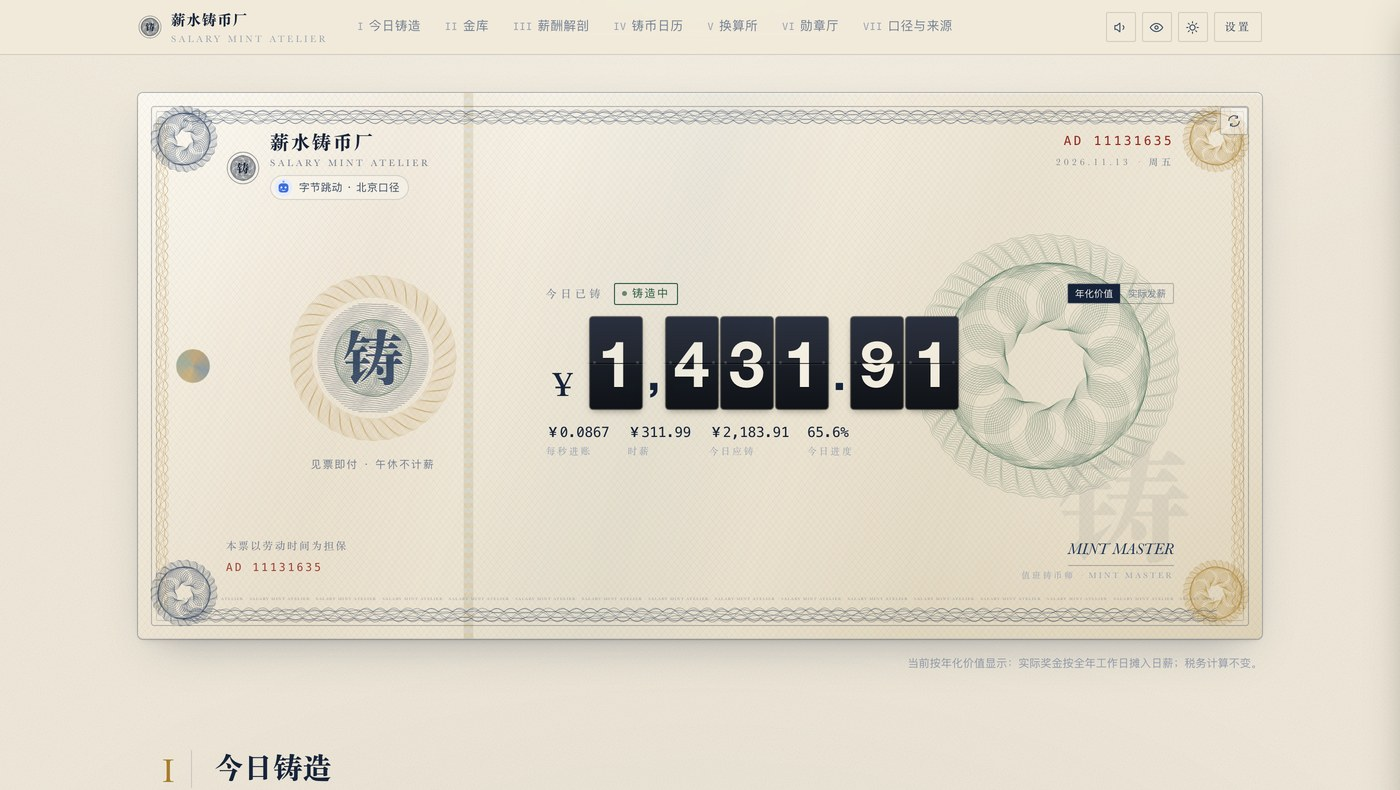
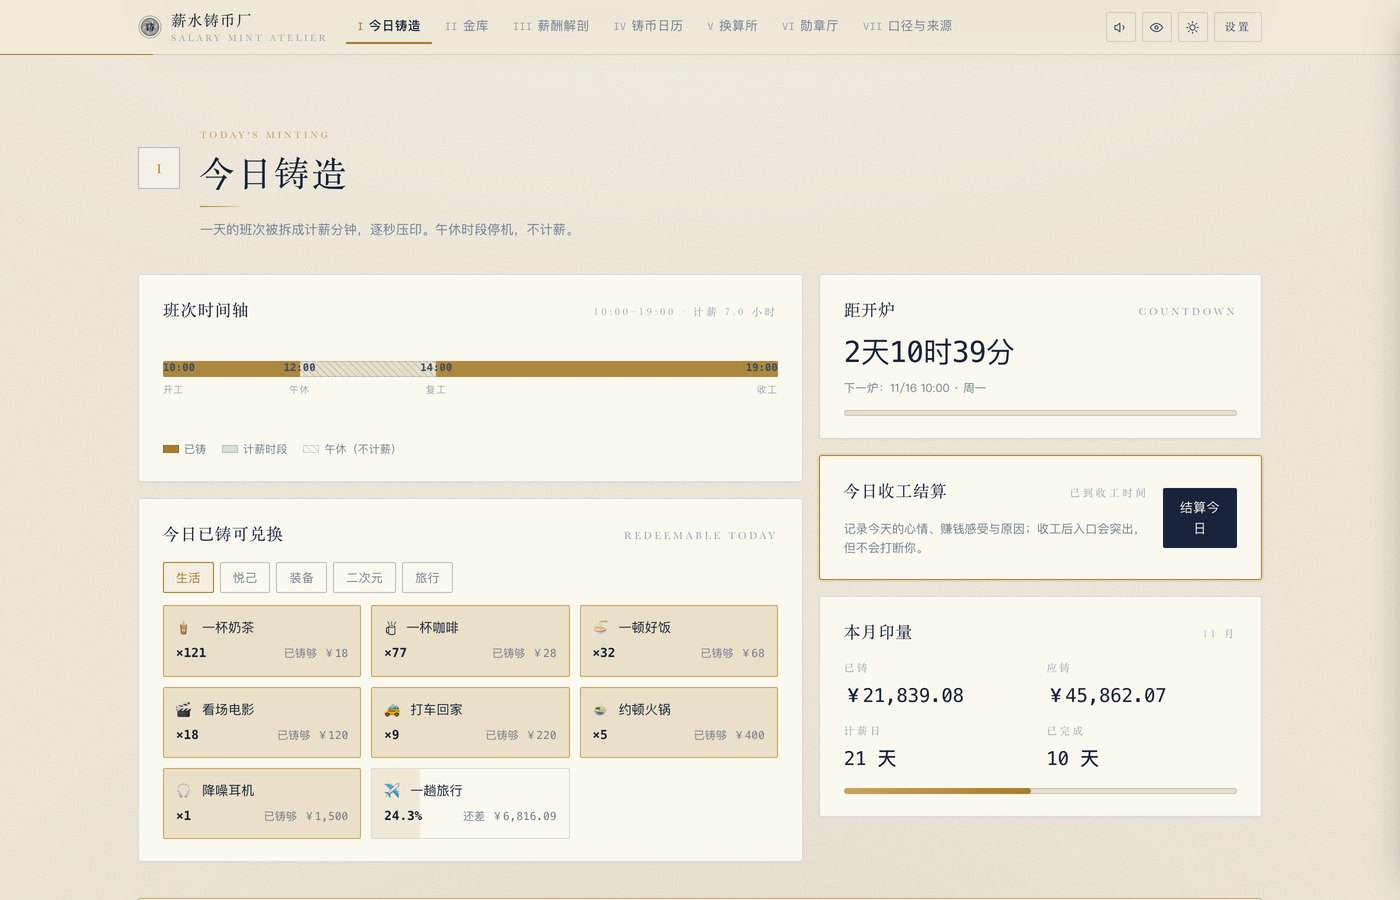
视觉打磨：重做章节版头，详情卡默认收起
- 一级标题改为钞版编号方框 + 英文小标 + 衬线标题，去掉宋体合成粗体
- 全年逐月明细 / 年度铸造节奏 / 战报卡默认折叠，摘要行直接显示合计
- 「今日已铸可兑换」并入左栏，消除时间轴卡片的大片留白
- 卡片标题与顶部品牌同步去掉合成粗体
- 重拍 README 截图，版本号 1.1.1

diff --git a/web/index.html b/web/index.html
@@ -207,19 +207,30 @@
     <div class="chap-head">
       <div class="chap-no">I</div>
       <div class="chap-t">
-        <h2>今日铸造</h2>
+        <div class="chap-ttl"><h2>今日铸造</h2><span class="lat">Today&#39;s Minting</span></div>
         <p class="lead">一天的班次被拆成计薪分钟，逐秒压印。午休时段停机，不计薪。</p>
       </div>
     </div>
 
-    <div class="grid g32">
-      <div class="card">
-        <div class="card-h"><h3>班次时间轴</h3><span class="k" id="tlRange">—</span></div>
-        <div class="tl" id="tl"></div>
-        <div class="tl-lg">
-          <span><i class="a"></i>已铸</span>
-          <span><i class="b"></i>计薪时段</span>
-          <span><i class="c"></i>午休（不计薪）</span>
+    <div class="grid g32" style="align-items:start">
+      <div style="display:flex;flex-direction:column;gap:16px">
+        <div class="card">
+          <div class="card-h"><h3>班次时间轴</h3><span class="k" id="tlRange">—</span></div>
+          <div class="tl" id="tl"></div>
+          <div class="tl-lg">
+            <span><i class="a"></i>已铸</span>
+            <span><i class="b"></i>计薪时段</span>
+            <span><i class="c"></i>午休（不计薪）</span>
+          </div>
+        </div>
+
+        <div class="card">
+          <div class="card-h">
+            <h3>今日已铸可兑换</h3>
+            <span class="k">Redeemable Today</span>
+          </div>
+          <div class="gsets" id="goalSets" role="group" aria-label="可兑换体系"></div>
+          <div class="goals blur" id="goals"></div>
         </div>
       </div>
 
@@ -246,15 +257,6 @@
         </div>
       </div>
     </div>
-
-    <div class="card" style="margin-top:16px">
-      <div class="card-h">
-        <h3>今日已铸可兑换</h3>
-        <span class="k">Redeemable Today</span>
-      </div>
-      <div class="gsets" id="goalSets" role="group" aria-label="可兑换体系"></div>
-      <div class="goals blur" id="goals"></div>
-    </div>
   </div>
 </section>
 
@@ -279,7 +281,7 @@
     <div class="chap-head">
       <div class="chap-no">II</div>
       <div class="chap-t">
-        <h2>金库</h2>
+        <div class="chap-ttl"><h2>金库</h2><span class="lat">The Vault</span></div>
         <p class="lead">本月已铸金额按面额堆成金条与散币，虚线是本月尚未铸出的份额。</p>
       </div>
     </div>
@@ -317,7 +319,7 @@
     <div class="chap-head">
       <div class="chap-no">III</div>
       <div class="chap-t">
-        <h2>薪酬解剖</h2>
+        <div class="chap-ttl"><h2>薪酬解剖</h2><span class="lat">Payroll Anatomy</span></div>
         <p class="lead">年薪月数（默认 15 薪）→ 12 个月 base 走累计预扣法、年终奖走全年一次性奖金单独计税 → 所选城市口径五险一金（个人部分）→ 到手。不含专项附加扣除。</p>
       </div>
     </div>
@@ -361,8 +363,12 @@
       </div>
     </div>
 
-    <div class="card" style="margin-top:16px">
-      <div class="card-h"><h3>全年逐月明细</h3><span class="k">Monthly Ledger</span></div>
+    <details class="card fold-card" style="margin-top:16px">
+      <summary>
+        <span class="fc-t">全年逐月明细</span>
+        <span class="k">Monthly Ledger</span>
+        <span class="fc-hint" id="taxTableHint">12 个月 · 展开查看</span>
+      </summary>
       <div class="tscroll">
         <table class="t blur" id="taxTable">
           <thead><tr>
@@ -372,7 +378,7 @@
           <tbody></tbody>
         </table>
       </div>
-    </div>
+    </details>
   </div>
 </section>
 
@@ -382,7 +388,7 @@
     <div class="chap-head">
       <div class="chap-no">IV</div>
       <div class="chap-t">
-        <h2>铸币日历</h2>
+        <div class="chap-ttl"><h2>铸币日历</h2><span class="lat">Minting Calendar</span></div>
         <p class="lead">按国务院办公厅当年放假通知渲染：法定节假日、调休放假、调休上班日各自成态；支持过去 31 天补录结算，完整记录保存在本机 localStorage，Cookie 仅作兼容。</p>
       </div>
     </div>
@@ -416,8 +422,13 @@
       <div class="sheet" id="sheet"></div>
     </div>
 
-    <div class="card" style="margin-top:20px">
-      <div class="card-h"><h3>年度铸造节奏</h3><span class="k" id="heatYear">—</span></div>
+    <details class="card fold-card" style="margin-top:20px">
+      <summary>
+        <span class="fc-t">年度铸造节奏</span>
+        <span class="k" id="heatYear">—</span>
+        <span class="fc-hint" id="yearHint">展开查看全年分布</span>
+      </summary>
+      <div class="fold-body">
       <div class="ybars" id="yearBars"></div>
       <div class="rule" style="margin:16px 0 12px"></div>
       <div class="grid g4" style="gap:12px">
@@ -433,7 +444,8 @@
         <span><em style="background:var(--engrave)"></em>心情好的天</span>
         <span><em style="background:var(--press)"></em>心情差的天</span>
       </div>
-    </div>
+      </div>
+    </details>
   </div>
 </section>
 
@@ -443,7 +455,7 @@
     <div class="chap-head">
       <div class="chap-no">V</div>
       <div class="chap-t">
-        <h2>换算所</h2>
+        <div class="chap-ttl"><h2>换算所</h2><span class="lat">Exchange</span></div>
         <p class="lead">把时间换算成钱，再把钱换算成看得懂的东西。</p>
       </div>
     </div>
@@ -528,14 +540,19 @@
     <div class="chap-head">
       <div class="chap-no">VI</div>
       <div class="chap-t">
-        <h2>勋章厅</h2>
+        <div class="chap-ttl"><h2>勋章厅</h2><span class="lat">Medal Hall</span></div>
         <p class="lead">六枚勋章，按当日与本月的铸造状态即时判定，不写入历史成绩。</p>
       </div>
     </div>
     <div class="medals" id="medalWall"></div>
 
-    <div class="card" style="margin-top:20px">
-      <div class="card-h"><h3>战报卡</h3><span class="k">Daily Bulletin</span></div>
+    <details class="card fold-card" style="margin-top:20px">
+      <summary>
+        <span class="fc-t">战报卡</span>
+        <span class="k">Daily Bulletin</span>
+        <span class="fc-hint">把某一天压成可分享的券</span>
+      </summary>
+      <div class="fold-body">
       <div class="grid g23" style="align-items:start">
         <div>
           <p style="margin:0 0 12px;font-size:13px;color:var(--ink-2);line-height:1.8">
@@ -558,7 +575,8 @@
           <canvas id="cardCv" style="width:100%;border:1px solid var(--line);border-radius:3px"></canvas>
         </div>
       </div>
-    </div>
+      </div>
+    </details>
   </div>
 </section>
 
@@ -568,7 +586,7 @@
     <div class="chap-head">
       <div class="chap-no">VII</div>
       <div class="chap-t">
-        <h2>口径与来源</h2>
+        <div class="chap-ttl"><h2>口径与来源</h2><span class="lat">Sources &amp; Method</span></div>
         <p class="lead">法定数字都能追到一手出处，默认收起，需要核对时展开。</p>
       </div>
     </div>

diff --git a/web/assets/base.css b/web/assets/base.css
@@ -83,20 +83,49 @@ img,svg,canvas{ display:block; max-width:100%; }
 .rule-d{ height:3px; border-top:1px solid var(--line-3); border-bottom:1px solid var(--line); }
 
 /* 章节壳 */
-.chap{ padding:78px 0 12px; position:relative; }
-.chap-head{ display:flex; align-items:flex-start; gap:22px; margin-bottom:28px; }
+.chap{ padding:76px 0 12px; position:relative; }
+/* 章节版头：钞版编号方框 + 英文小标 + 衬线标题；标题不用合成粗体 */
+.chap-head{ display:flex; align-items:flex-start; margin-bottom:32px; }
 .chap-no{
-  flex:none; width:54px; padding-top:4px;
-  font-family:var(--lat); font-size:34px; line-height:1; color:var(--gold);
-  letter-spacing:.02em; border-right:1px solid var(--line); padding-right:16px; text-align:right;
+  flex:none; width:42px; height:42px; margin:20px 20px 0 0;
+  display:grid; place-items:center;
+  font-family:var(--lat); font-size:13px; font-weight:400; line-height:1;
+  color:var(--gold); letter-spacing:.1em; text-indent:.1em;
+  border:1px solid var(--line-3); border-radius:1px;
+  background:color-mix(in srgb,var(--paper-hi) 55%, transparent);
 }
+html[data-theme="night"] .chap-no{ background:color-mix(in srgb,#FFF 3%, transparent); border-color:var(--line); }
 .chap-t{ flex:1 1 auto; min-width:0; }
 .chap-t h2{
-  margin:0 0 4px; font-family:var(--serif); font-weight:900;
-  font-size:clamp(21px,2.5vw,29px); letter-spacing:.02em; line-height:1.24;
+  margin:0; font-family:var(--serif); font-weight:400;
+  font-size:clamp(26px,3vw,35px); letter-spacing:.06em; line-height:1.24;
+  color:var(--ink);
 }
-.chap-t .lead{ margin:0; color:var(--ink-2); font-size:14px; max-width:66ch; }
-.chap-t .lat{ font-family:var(--lat); font-size:12.5px; letter-spacing:.28em; text-transform:uppercase; color:var(--ink-4); }
+.chap-t .lead{
+  margin:11px 0 0; color:var(--ink-3); font-size:13px; line-height:1.8;
+  max-width:62ch; letter-spacing:.005em;
+}
+/* 英文小标压在标题之上，与标题左缘对齐 */
+.chap-ttl{ display:flex; flex-direction:column-reverse; align-items:flex-start; gap:7px; }
+.chap-t .lat{
+  font-family:var(--lat); font-size:9.5px; letter-spacing:.32em; text-transform:uppercase;
+  color:var(--gold); opacity:.72; white-space:nowrap;
+}
+/* 标题下的细装饰线：从标题左缘延伸，收在 1/3 处 */
+.chap-t h2::after{
+  content:''; display:block; width:44px; height:1px; margin-top:13px;
+  background:linear-gradient(90deg,var(--gold) 0%,var(--gold-dim) 55%,transparent 100%);
+}
+@media (max-width:640px){
+  .chap{ padding:52px 0 8px; }
+  .chap-head{ margin-bottom:24px; }
+  .chap-no{ width:32px; height:32px; margin:16px 12px 0 0; font-size:11px; }
+  .chap-t h2{ font-size:23px; letter-spacing:.05em; }
+  .chap-ttl{ gap:5px; }
+  .chap-t .lat{ font-size:8.5px; letter-spacing:.24em; }
+  .chap-t .lead{ font-size:12.5px; margin-top:9px; }
+  .chap-t h2::after{ margin-top:10px; width:34px; }
+}
 
 /* 卡片 */
 .card{
@@ -107,8 +136,46 @@ img,svg,canvas{ display:block; max-width:100%; }
 html[data-theme="night"] .card{ background:var(--paper-2); box-shadow:none; }
 .card.flat{ background:transparent; box-shadow:none; }
 .card-h{ display:flex; align-items:baseline; justify-content:space-between; gap:12px; margin-bottom:14px; }
-.card-h h3{ margin:0; font-family:var(--serif); font-weight:700; font-size:15.5px; letter-spacing:.03em; }
+.card-h h3{ margin:0; font-family:var(--serif); font-weight:400; font-size:16.5px; letter-spacing:.045em; }
 .card-h .k{ font-family:var(--lat); font-size:10.5px; letter-spacing:.26em; text-transform:uppercase; color:var(--ink-4); }
+
+/* 可折叠卡片：标题行本身即开关，默认收起 */
+.card.fold-card{ padding:0; }
+.fold-card > summary{
+  display:flex; align-items:baseline; gap:12px; cursor:pointer; list-style:none;
+  padding:18px 24px; margin:0;
+}
+.fold-card > summary::-webkit-details-marker{ display:none; }
+.fold-card > summary .fc-t{
+  display:inline-flex; align-items:center; gap:9px;
+  font-family:var(--serif); font-weight:400; font-size:16.5px; letter-spacing:.045em; color:var(--ink);
+}
+.fold-card > summary .fc-t::before{
+  content:''; width:2px; height:13px; background:var(--gold-dim); flex:none;
+}
+.fold-card > summary .fc-t{ margin-right:auto; }
+.fold-card > summary .fc-hint{
+  font-size:11.5px; color:var(--ink-3); letter-spacing:.01em; white-space:nowrap;
+}
+.fold-card > summary::after{
+  content:'＋'; font-family:var(--mono); font-size:13px; color:var(--ink-4); margin-left:2px;
+}
+.fold-card[open] > summary::after{ content:'－'; }
+.fold-card > summary:hover .fc-t{ color:var(--gold); }
+.fold-card[open] > summary{ border-bottom:1px solid var(--line-2); }
+.fold-card .tscroll{ padding:6px 24px 18px; }
+.fold-card .fold-body{ padding:4px 24px 22px; }
+
+@media (max-width:640px){
+  .fold-card > summary{ padding:14px 16px; gap:9px; }
+  .fold-card > summary .k{ display:none; }
+  .fold-card > summary .fc-hint{ font-size:10.5px; }
+  .fold-card .tscroll{ padding:4px 16px 14px; }
+  .fold-card .fold-body{ padding:2px 16px 16px; }
+}
+@media (max-width:360px){
+  .fold-card > summary .fc-hint{ display:none; }
+}
 
 .grid{ display:grid; gap:16px; }
 .g2{ grid-template-columns:repeat(2,minmax(0,1fr)); }
@@ -151,7 +218,7 @@ html[data-theme="night"] .card{ background:var(--paper-2); box-shadow:none; }
 @media (max-width:640px){ .topbar-in{ padding:0 14px; height:50px; gap:10px; } }
 .brand{ display:flex; align-items:center; gap:9px; flex:none; }
 .brand .seal{ width:24px; height:24px; flex:none; }
-.brand b{ font-family:var(--serif); font-weight:900; font-size:14.5px; letter-spacing:.06em; white-space:nowrap; }
+.brand b{ font-family:var(--serif); font-weight:400; font-size:15px; letter-spacing:.09em; white-space:nowrap; }
 .brand i{ font-family:var(--lat); font-style:normal; font-size:9.5px; letter-spacing:.28em; text-transform:uppercase; color:var(--ink-4); display:block; margin-top:-2px; }
 @media (max-width:820px){ .brand i{ display:none; } }
 

diff --git a/web/assets/app.js b/web/assets/app.js
@@ -701,6 +701,10 @@ function renderPayroll(){
       <td class="n">—</td><td class="n">—</td>
       <td class="n">${fmt(ty.year.tax,0)}</td>
       <td class="n">${fmt(ty.year.net,0)}</td></tr>`;
+
+  /* 折叠标题上的摘要：不展开也能看到全年合计 */
+  const hint = $('#taxTableHint');
+  if (hint) hint.textContent = '12 个月 · 全年到手 ' + yuan0(ty.year.net);
 }
 
 /* ---------- 年薪结构（年薪月数 / 年终奖 / 年到手） ---------- */
@@ -1037,6 +1041,8 @@ function renderYear(){
     : '年化月均 ' + yuan0(total/12);
   $('#yWork').textContent  = work + ' 天' + (otD ? ' + 加班 ' + otD + ' 天' : '');
   $('#yLegal').textContent = legal + ' 天';
+  const yHint = document.getElementById('yearHint');
+  if (yHint) yHint.textContent = '计薪 ' + work + ' 天 · 全年 ' + yuan0(total);
   $('#yMood').textContent  = yMood.n + ' 天';
   $('#yMoodSub').textContent = yMood.n
     ? '开心 ' + yMood.g + ' · 一般 ' + yMood.s + ' · 不开心 ' + yMood.b + ' · 难赚 ' + yMood.h

diff --git a/README.md b/README.md
@@ -58,7 +58,7 @@
 
 菜单栏常驻今日进账，点开是完整账本。支持 macOS 13 及以上，Apple Silicon 与 Intel 通用。
 
-**安装**：从 [Releases](https://github.com/yinbro/salary-mint/releases/latest) 下载 `SalaryMint-1.1.0-macOS.zip`，解压后把「薪水铸币厂.app」拖进「应用程序」。
+**安装**：从 [Releases](https://github.com/yinbro/salary-mint/releases/latest) 下载 `SalaryMint-1.1.1-macOS.zip`，解压后把「薪水铸币厂.app」拖进「应用程序」。
 
 **首次打开**：应用没有做 Apple 公证（省开发者年费），系统会拦一次。右键点击应用选「打开」，或执行：
 
@@ -119,7 +119,7 @@ docs/screenshots/    README 用图
 
 ## 免责声明
 
-页面里的个税、社保、公积金、节假日口径按上海市规则整理，来源逐条标注在「VII 口径与来源」，仅供个人估算参考，**不构成税务、法律或劳动关系的意见**。实际金额以工资条与官方口径为准。
+页面里的个税、社保、公积金、节假日口径按上海 / 北京 / 深圳 / 杭州四城规则整理，来源逐条标注在「VII 口径与来源」，仅供个人估算参考，**不构成税务、法律或劳动关系的意见**。实际金额以工资条与官方口径为准。
 
 ## License
 
@@ -137,6 +137,6 @@ It ships as a zero-dependency static site and a macOS menu bar app. Everything s
 - **Download for macOS** (13+, universal binary): [Releases](https://github.com/yinbro/salary-mint/releases/latest). The app is ad-hoc signed only, so right-click → Open on first launch, or run `xattr -dr com.apple.quarantine /Applications/薪水铸币厂.app`.
 - **Build**: serve `web/` with any static server, or run `bash macos/build.sh` (requires Xcode Command Line Tools).
 
-Tax and social-insurance figures follow Shanghai rules and are sourced in-app under "VII 口径与来源"; they are estimates, not professional advice.
+Tax and social-insurance figures follow the rules of Shanghai, Beijing, Shenzhen and Hangzhou, and are sourced in-app under "VII 口径与来源"; they are estimates, not professional advice.
 
 MIT licensed.
